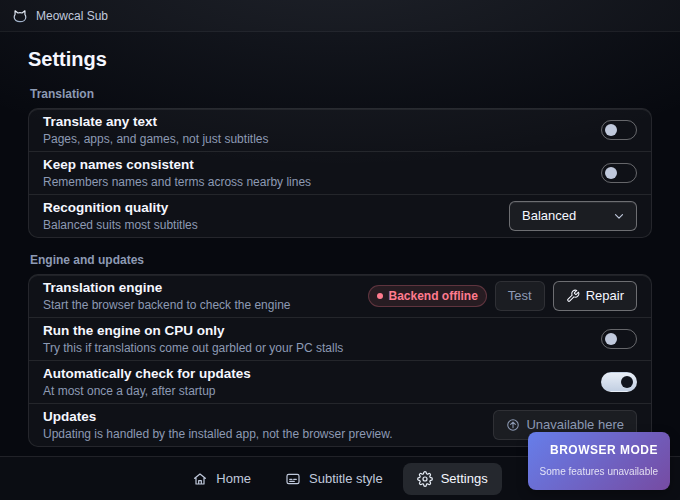
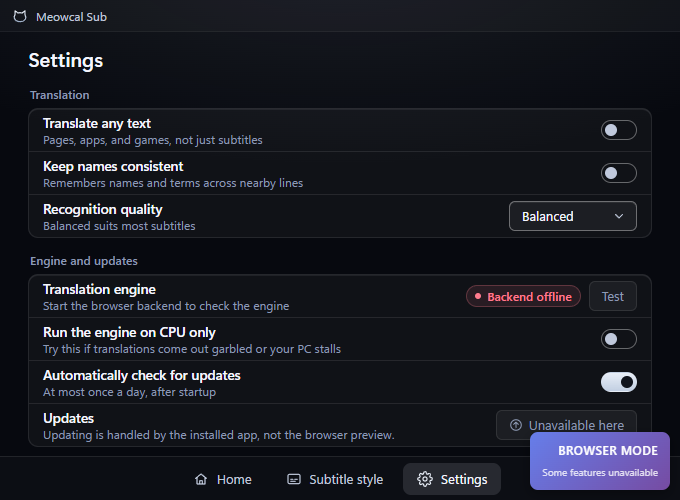
fix(ui): keep browser backend failures distinct from engine repair

diff --git a/src/ui/settings-view.ts b/src/ui/settings-view.ts
@@ -24,7 +24,7 @@ interface EngineRow {
   tone: Tone;
   chip: string;
   detail: string;
-  actionLabel: string;
+  actionLabel: string | null;
   actionIsPrimary: boolean;
   canTest: boolean;
 }
@@ -64,7 +64,7 @@ function engineRow(snapshot: UiSnapshot): EngineRow {
       tone: "danger",
       chip: "Backend offline",
       detail: "Start the browser backend to check the engine",
-      actionLabel: "Repair",
+      actionLabel: null,
       actionIsPrimary: false,
       canTest: false,
     };
@@ -131,13 +131,17 @@ function renderEngineAndUpdates(snapshot: UiSnapshot, actions: SettingsActions):
           >
             Test
           </button>
-          <button
-            class=${engine.actionIsPrimary ? "primary-button compact" : "secondary-button"}
-            type="button"
-            @click=${actions.onRepair}
-          >
-            ${icon("wrench")}${engine.actionLabel}
-          </button>
+          ${
+            engine.actionLabel
+              ? html`<button
+                  class=${engine.actionIsPrimary ? "primary-button compact" : "secondary-button"}
+                  type="button"
+                  @click=${actions.onRepair}
+                >
+                  ${icon("wrench")}${engine.actionLabel}
+                </button>`
+              : nothing
+          }
         </span>
       </div>
       ${switchRow(

diff --git a/frontend-tests/unit/app-controller.test.ts b/frontend-tests/unit/app-controller.test.ts
@@ -217,6 +217,34 @@ describe("AppController settings persistence", () => {
     controller.dispose();
   });
 
+  it.each([
+    ["browser mode", true, "backendUnavailable"],
+    ["Tauri", false, "ready"],
+  ])("handles a lost engine status after startup in %s", async (_mode, browser, phase) => {
+    let online = true;
+    const invoke = vi.fn(async (command: string) => {
+      if (command === "get_engine_status") return { phase: "ready" };
+      if (command === "refresh_engine_status") {
+        if (!online) throw new Error("Failed to fetch");
+        return { phase: "ready" };
+      }
+      return undefined;
+    });
+    vi.spyOn(console, "warn").mockImplementation(() => {});
+    const { controller } = createController(invoke as TauriBridgeApi["invoke"], undefined, browser);
+    await controller.initialize();
+    expect(controller.current().engine?.phase).toBe("ready");
+
+    online = false;
+    await controller.refresh();
+    expect(controller.current().engine?.phase).toBe(phase);
+
+    online = true;
+    await controller.refresh();
+    expect(controller.current().engine?.phase).toBe("ready");
+    controller.dispose();
+  });
+
   it("updates a preparing engine when background startup finishes", async () => {
     let ready!: (value: unknown) => void;
     const pending = new Promise((resolve) => {

diff --git a/src/ui/app-controller.ts b/src/ui/app-controller.ts
@@ -219,8 +219,11 @@ export class AppController {
   }
 
   async refresh(): Promise<void> {
+    const engineFallback = window.TauriBridge.isBrowserMode()
+      ? { phase: backendUnavailablePhase }
+      : (this.snapshot.engine ?? {});
     const [engine, region, stored] = await Promise.all([
-      this.safeInvoke<EngineStatus>("refresh_engine_status", this.snapshot.engine ?? {}),
+      this.safeInvoke<EngineStatus>("refresh_engine_status", engineFallback),
       this.safeInvoke<CaptureRegion | null>("get_capture_region", this.snapshot.region),
       this.safeInvoke<Partial<AppSettings> | null>("get_settings", null),
     ]);

diff --git a/docs/audit-20260926/ui/README.md b/docs/audit-20260926/ui/README.md
@@ -41,3 +41,4 @@ browser is not installed.
 | J6 Home | Fallback capture report shown while running, at 680 and 560 | Fail | Pass |
 | J6 Home | Capture error still shown after the window regains focus | Fail | Pass |
 | Browser mode | Home and Settings say "Backend offline", not "Needs repair" | Fail | Pass |
+| Browser mode | Settings does not offer engine repair while the backend is offline | Fail | Pass |
